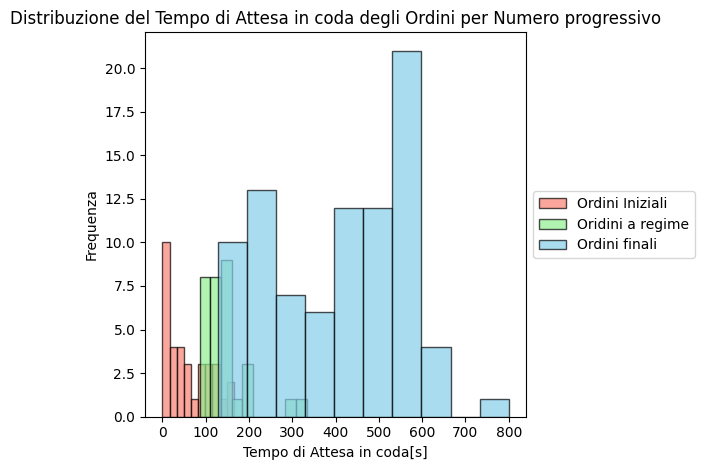
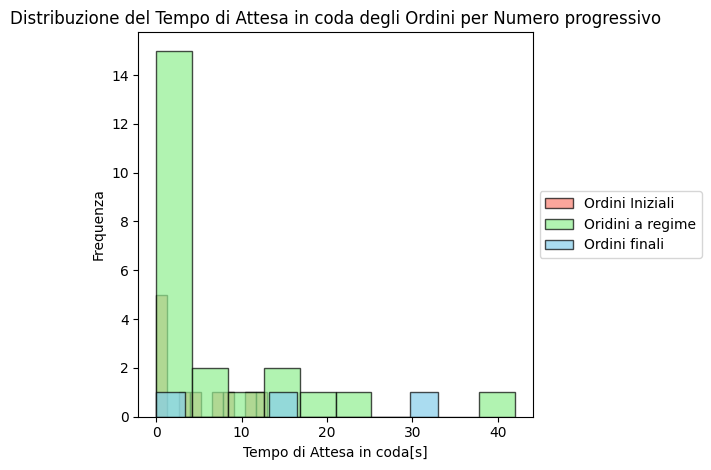
aggiornamento script python
rimozione outlier tramite z-score

Changed region(s): [[0.0312, 0.0, 0.9362, 0.983], [0.7489, 0.3872, 0.9986, 0.566]]

diff --git a/Data_analysis_scripts/src/script/gen_t_attesa_histograms.py b/Data_analysis_scripts/src/script/gen_t_attesa_histograms.py
@@ -1,6 +1,7 @@
 import matplotlib.pyplot as plt
 import pandas as pd
 import numpy as np
+from scipy import stats
 
 # Analisi distribuzione del tempo di attesa di preparazione degli ordini
 # In questa sezione viene analizzato il tempo di attesa di preparazione degli ordini, ossia il tempo che passa da
@@ -20,11 +21,20 @@ def generate_t_attesa_histograms_from_csv(file_csv, output_file):
     # Importo il file csv
     df = pd.read_csv(file_csv)
 
-    # Considero solo le occorrenze dalla 20a in poi
-    df = df.iloc[20:]
-
     # Aggiungo colonna t_attesa-prep = tempo di attesa meno il tempo di preparazione dell'ordine
     df.loc[:, 't_attesa-prep'] = df['tempo_attesa'] - df['t_prep']
+
+    # Calcola lo z-score per la colonna t_attesa-prep
+    z_scores = stats.zscore(df['t_attesa-prep'])
+
+    # Trova le osservazioni che hanno uno z-score al di fuori di un certo intervallo
+    outlier_indexes = (z_scores > 3) | (z_scores < -3)
+
+    # Rimuovi le osservazioni outlier dal DataFrame
+    df = df[~outlier_indexes]
+
+    # Considero solo le occorrenze dalla 50a in poi
+    # df = df.iloc[50:]
 
     # Calcola la media del tempo di attesa
     media_tempo_attesa = df['t_attesa-prep'].mean()
@@ -45,9 +55,9 @@ def generate_t_attesa_histograms_from_csv(file_csv, output_file):
     print("75° percentile tempo di attesa = " + "{:.3f}".format(percentile_75))
 
     # Suddivide i dati in base alla priorità degli ordini
-    priorita_bassa = df[df['priorita_iniz'] < 30]
-    priorita_media = df[(df['priorita_iniz'] <= 70) & (df['priorita_iniz'] >= 30)]
-    priorita_alta = df[df['priorita_iniz'] > 70]
+    priorita_bassa = df[df['priorita_iniz'] < 40]
+    priorita_media = df[(df['priorita_iniz'] <= 60) & (df['priorita_iniz'] >= 40)]
+    priorita_alta = df[df['priorita_iniz'] > 60]
 
     # Modifica la dimensione del grafico
     plt.figure(figsize=(10, 6))

diff --git a/Data_analysis_scripts/src/script/gen_t_coda_histograms.py b/Data_analysis_scripts/src/script/gen_t_coda_histograms.py
@@ -1,6 +1,8 @@
 import matplotlib.pyplot as plt
 import pandas as pd
 import numpy as np
+from scipy import stats
+
 
 # Analisi distribuzione del tempo di attesa in coda degli ordini
 # In questa sezione viene analizzato il tempo di attesa in coda degli ordini, ossia il tempo che passa da quando
@@ -20,8 +22,19 @@ def generate_t_coda_histograms_from_csv(file_csv, output_file):
     # Importo il file csv
     df = pd.read_csv(file_csv)
 
-    # Considero solo le occorrenze dalla 20a in poi
-    df = df.iloc[20:]
+    # Calcola lo z-score per la colonna 't_cosa'
+    z_scores = stats.zscore(df['t_coda'])
+
+    # Trova le osservazioni che hanno uno z-score al di fuori di un certo intervallo
+    outlier_indexes = (z_scores > 3) | (z_scores < -3)
+
+    # Rimuovi le osservazioni outlier dal DataFrame
+    df = df[~outlier_indexes]
+
+    # Considero solo le occorrenze dalla 50a in poi
+    # df = df.iloc[50:]
+
+    print(len(df))
 
     # Calcola la media del tempo di attesa
     media_tempo_attesa = df['t_coda'].mean()
@@ -42,9 +55,9 @@ def generate_t_coda_histograms_from_csv(file_csv, output_file):
     print("75° percentile tempo di attesa = " + "{:.3f}".format(percentile_75))
 
     # Suddivide i dati in base alla priorità degli ordini
-    priorita_bassa = df[df['priorita_iniz'] < 30]
-    priorita_media = df[(df['priorita_iniz'] <= 70) & (df['priorita_iniz'] >= 30)]
-    priorita_alta = df[df['priorita_iniz'] > 70]
+    priorita_bassa = df[df['priorita_iniz'] < 40]
+    priorita_media = df[(df['priorita_iniz'] <= 60) & (df['priorita_iniz'] >= 40)]
+    priorita_alta = df[df['priorita_iniz'] > 60]
 
     # Modifica la dimensione del grafico
     plt.figure(figsize=(10, 6))

diff --git a/Data_analysis_scripts/src/script/gen_t_attesa_histogram_nrordine.py b/Data_analysis_scripts/src/script/gen_t_attesa_histogram_nrordine.py
@@ -1,18 +1,31 @@
 import matplotlib.pyplot as plt
 import pandas as pd
+from scipy import stats
 
 
 def generate_t_coda_histograms_nr_ordine_from_csv(file_csv, output_file):
     # Importo il file csv
     df = pd.read_csv(file_csv)
 
-    # Considero solo le occorrenze dalla 20a in poi
-    df = df.iloc[20:]
+    # Calcola lo z-score per la colonna 't_coda'
+    z_scores = stats.zscore(df['t_coda'])
+
+    # Trova le osservazioni che hanno uno z-score al di fuori di un certo intervallo
+    outlier_indexes = (z_scores > 3) | (z_scores < -3)
+
+    # Rimuovi le osservazioni outlier dal DataFrame
+    df = df[~outlier_indexes]
+
+    # Considero solo le occorrenze dalla 50a in poi
+    # df = df.iloc[50:]
+
+    # Calcolo il numero di ordini nel dataset
+    nr_ordini = len(df)
 
     # Suddivide i dati in base al numero di ordinazione progressivo
-    ordini_iniziali = df[df['Numero'] < 55] # si parte da 20
-    ordini_medi = df[(df['Numero'] <= 85) & (df['Numero'] >= 55)]
-    ordini_finali = df[df['Numero'] > 85]
+    ordini_iniziali = df.head(int(nr_ordini*0.3))
+    ordini_medi = df.iloc[int(nr_ordini*0.3):-int(nr_ordini*0.1)]
+    ordini_finali = df.tail(int(nr_ordini*0.1))
 
     # Modifica la dimensione del grafico
     # plt.figure(figsize=(10, 6))

diff --git a/Data_analysis_scripts/src/script/gen_t_attesa_nr_ordine_graph.py b/Data_analysis_scripts/src/script/gen_t_attesa_nr_ordine_graph.py
@@ -1,5 +1,6 @@
 import pandas as pd
 import matplotlib.pyplot as plt
+from scipy import stats
 
 # Analisi Tempo di attesa in base al numero degli ordini
 # Come primo passo viene analizzato come il tempo di attesa varia con l'avanzare del numero di ordini.
@@ -13,6 +14,18 @@ def generate_t_attesa_line_plot_from_csv(file_csv, output_file):
     df = pd.read_csv(file_csv)
 
     df.loc[:, 't_attesa-prep'] = df['tempo_attesa'] - df['t_prep']
+
+    # Calcola lo z-score per la colonna 't_attesa-prep'
+    z_scores = stats.zscore(df['t_attesa-prep'])
+
+    # Trova le osservazioni che hanno uno z-score al di fuori di un certo intervallo
+    outlier_indexes = (z_scores > 3) | (z_scores < -3)
+
+    # Rimuovi le osservazioni outlier dal DataFrame
+    df = df[~outlier_indexes]
+
+    # Modifica la dimensione del grafico
+    plt.figure(figsize=(10, 6))
 
     # Applica il filtro a media mobile ai dati di tempo di attesa utilizzando una finestra di 10 punti
     df['tempo_attesa_filtrato'] = df['t_attesa-prep'].rolling(window=10, min_periods=1).mean()

diff --git a/Data_analysis_scripts/src/script/gen_scatterd_plot.py b/Data_analysis_scripts/src/script/gen_scatterd_plot.py
@@ -1,5 +1,6 @@
 import matplotlib.pyplot as plt
 import pandas as pd
+from scipy import stats
 
 # Analisi dei parametri in base al tempo totale in attesa
 # In questo passo viene analizzato come i 5 parametri su cui si basa la priorità influiscano sul tempo di
@@ -17,6 +18,15 @@ import pandas as pd
 
 def generate_scattered_plot_from_csv(file_csv, output_file):
     df = pd.read_csv(file_csv)
+
+    # Calcola lo z-score per la colonna 'tempo_attesa'
+    z_scores = stats.zscore(df['tempo_attesa'])
+
+    # Trova le osservazioni che hanno uno z-score al di fuori di un certo intervallo
+    outlier_indexes = (z_scores > 3) | (z_scores < -3)
+
+    # Rimuovi le osservazioni outlier dal DataFrame
+    df = df[~outlier_indexes]
 
     x1 = df['ingr_principale']
     x2 = df['t_prep']

diff --git a/Data_analysis_scripts/src/main.py b/Data_analysis_scripts/src/main.py
@@ -1,10 +1,12 @@
 import os
 from pathlib import Path
+
 import script.gen_t_attesa_nr_ordine_graph as l1
 import script.gen_t_attesa_histograms as h1
 import script.gen_t_coda_histograms as h2
 import script.gen_t_attesa_histogram_nrordine as h3
 import script.gen_scatterd_plot as s1
+
 
 def check_and_create_folder(folder):
     path_folder = Path(folder)
